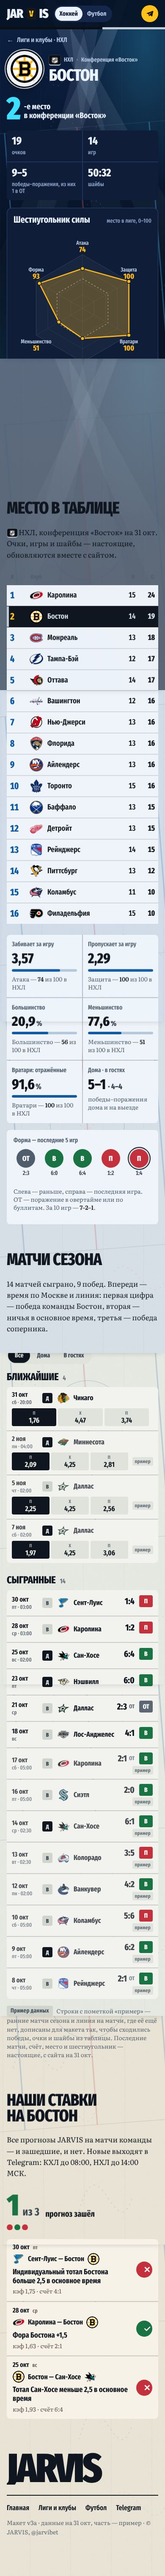
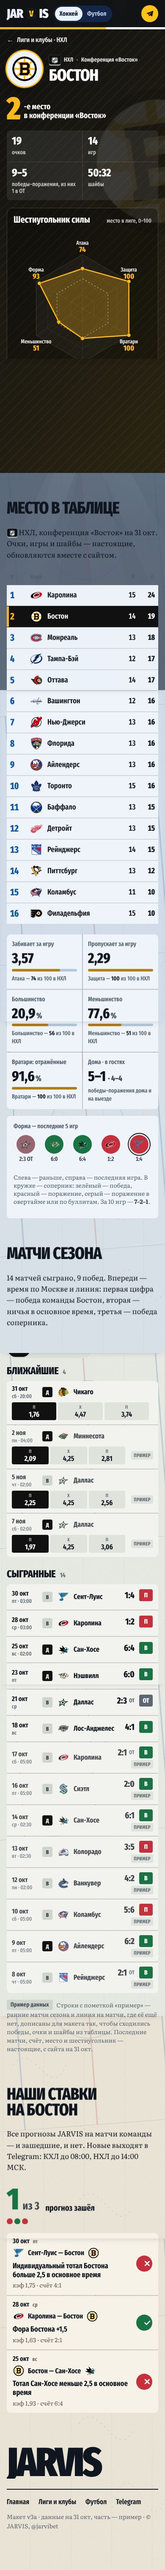
Сайт v3a, страница команды: фон в цветах клуба, форма — эмблемы соперников в кружках
- assets/data/clubs.js — фирменные цвета 54 клубов [основной, второй, акцент]; шапка — градиент клуба,
  «джерси»-фактура, крупная полупрозрачная эмблема у края; текст светлый/тёмный по контрасту ≥ 4,5:1 (team.js
  при нужде затемняет фон), акценты (шестиугольник, место, полоски, кнопки, строка в таблице) — в цвете клуба.
- «Форма — последние 5 игр»: вместо букв В/П — эмблема соперника на цветном кружке, title «Победа над Сочи 4:3»;
  так же в раскрытой карточке матча на /hockey/.
- Снимки: preview/team-{ska,akbars,nhl_bos}-{1440,390}.jpg, preview/team-form-closeup.jpg.

Claude-Session: https://claude.ai/code/session_01MtLSogHd6m7MxThqrTgRQx

diff --git a/team/site/v3a/assets/team.js b/team/site/v3a/assets/team.js
@@ -19,6 +19,7 @@ const tl=(s,inner,cls='')=>`<a class="${cls}" href="index.html?id=${esc(s)}${tq}
 const BACK=lg=>`../hockey/index.html${THEME?'?theme='+encodeURIComponent(THEME):''}#lg-${lg}`;
 const MON=['янв','фев','мар','апр','мая','июн','июл','авг','сен','окт','ноя','дек'],WD=['вс','пн','вт','ср','чт','пт','сб'];
 const day=d=>{const [y,m,dd]=d.slice(0,10).split('-').map(Number),x=new Date(Date.UTC(y,m-1,dd));return {d:dd,mon:MON[m-1],wd:WD[x.getUTCDay()],tm:d.slice(11,16)}};
+const formTitle=g=>{const r=g.gf>g.ga?'W':(g.x?'OTL':'L'),o=nm(g.o),sc=`${g.gf}:${g.ga}`;return r==='W'?`Победа над ${o} ${sc}${g.x?(g.x==='Б'?' по буллитам':' в овертайме'):''}`:`Поражение от ${o} ${sc}${r==='OTL'?(g.x==='Б'?' по буллитам':' в овертайме'):''}`};
 const res=g=>g.gf>g.ga?'W':(g.x?'OTL':'L');
 const RL={W:['В','w','победа'],L:['П','l','поражение'],OTL:['ОТ','ot','поражение в овертайме или по буллитам']};
 // тёмный фирменный цвет на тёмном фоне не виден — осветляем (как bright() в app/index.html)
@@ -58,9 +59,31 @@ if(!T){
 }
 
 const lg=T.lg,L=LG[lg],conf=T.conf||'';
-const acc=bright((T.colors||[])[2]||(T.colors||[])[0]);
+/* ── палитра клуба: градиент шапки из фирменных цветов (assets/data/clubs.js), текст светлый или тёмный по контрасту ≥ 4,5:1 ── */
+const rgb=h=>{const n=parseInt(String(h).replace('#','').replace(/^(.)(.)(.)$/,'$1$1$2$2$3$3'),16);return [n>>16,n>>8&255,n&255]};
+const hex=a=>'#'+a.map(v=>Math.max(0,Math.min(255,Math.round(v))).toString(16).padStart(2,'0')).join('');
+const mix=(a,b,t)=>hex(rgb(a).map((v,i)=>v+(rgb(b)[i]-v)*t));
+const lum=h=>{const c=rgb(h).map(v=>{v/=255;return v<=.03928?v/12.92:((v+.055)/1.055)**2.4});return .2126*c[0]+.7152*c[1]+.0722*c[2]};
+const cr=(a,b)=>{const x=lum(a),y=lum(b);return (Math.max(x,y)+.05)/(Math.min(x,y)+.05)};
+function palette(c){
+ let stops=[c[0],mix(c[0],c[1],.5),c[1]],acc=c[2];
+ const ok=t=>stops.every(s=>cr(t,s)>=4.5&&cr(mix(t,s,.25),s)>=4.5);   // и основной текст, и приглушённый (подписи)
+ let text=null;
+ for(let k=0;k<14&&!text;k++){if(ok('#ffffff'))text='#ffffff';else if(ok('#0b0f16'))text='#0b0f16';else stops=stops.map(s=>mix(s,'#000000',.1))}
+ text=text||'#ffffff';
+ // акцент должен читаться на фоне шапки (≥ 3:1 — крупные цифры и линии шестиугольника)
+ for(let k=0;k<10&&stops.some(s=>cr(acc,s)<3);k++)acc=mix(acc,text,.18);
+ // акцент на светлой «газете» ниже (полоски, обводки): затемняем до ≥ 3:1 к бумаге
+ let accL=c[2];for(let k=0;k<12&&cr(accL,'#eceee8')<3;k++)accL=mix(accL,'#000000',.12);
+ return {stops,text,acc,accL,base:stops[0]};
+}
+const CP=palette((window.JV_CLUBS||{})[ID]||[T.colors?.[0]||'#1b2a44',T.colors?.[1]||'#0b1220',bright(T.colors?.[2])]);
+const acc=CP.acc;
 document.title=`${T.name} — матчи сезона, место в таблице, сила команды · JARVIS`;
-document.documentElement.style.setProperty('--team',acc);
+{const st=document.body.style;[['--c1',CP.stops[0]],['--c2',CP.stops[1]],['--c3',CP.stops[2]],['--con',CP.text],['--cacc',CP.acc],['--team',CP.accL],['--cbase',CP.base]].forEach(([k,v])=>st.setProperty(k,v));
+ document.body.classList.toggle('on-light',CP.text!=='#ffffff');
+ const m=document.querySelector('meta[name=theme-color]');if(m)m.content=CP.stops[0];
+ const wm=document.createElement('img');wm.className='tmwm';wm.src=`../assets/em/${ID}.webp`;wm.alt='';wm.setAttribute('aria-hidden','true');document.querySelector('.tmhero').prepend(wm)}
 document.body.dataset.lg=lg;
 const played=T.games.filter(g=>g.gf!=null),future=T.games.filter(g=>g.gf==null);
 const hasSample=T.games.some(g=>g.s||g.ks);
@@ -121,8 +144,8 @@ document.getElementById('tableBox').innerHTML=`
     ${tile('Дома · в гостях',hm?`${hm[0]}–${hm[1]}`:'—',aw?` · ${aw[0]}–${aw[1]}`:'',null,'победы–поражения дома и на выезде')}
    </div>
    <div class="formbox"><span class="sl">Форма — последние 5 игр</span>
-    <ol class="frm" aria-label="Последние 5 игр, слева раньше">${last5.map(g=>{const r=RL[res(g)];return `<li class="${r[1]}" title="${esc(nm(g.o))}, ${g.gf}:${g.ga}${g.x?' '+g.x:''} — ${r[2]}"><b>${r[0]}</b><span>${g.gf}:${g.ga}</span></li>`}).join('')}</ol>
-    <p class="ss">Слева — раньше, справа — последняя игра. ОТ — поражение в овертайме или по буллитам. За 10 игр — <b>${T.l10s||T.l10+' '+plural(T.l10,'очко','очка','очков')}</b>.</p></div>
+    <ol class="frm" aria-label="Последние 5 игр, слева раньше">${last5.map(g=>{const t=formTitle(g);return `<li class="${RL[res(g)][1]}" title="${esc(t)}" aria-label="${esc(t)}"><b><img src="../assets/em/${esc(g.o)}.webp" alt="" loading="lazy"></b><span>${g.gf}:${g.ga}${g.x?' '+g.x:''}</span></li>`}).join('')}</ol>
+    <p class="ss">Слева — раньше, справа — последняя игра. В кружке — соперник: зелёный — победа, красный — поражение, серый — поражение в овертайме или по буллитам. За 10 игр — <b>${T.l10s||T.l10+' '+plural(T.l10,'очко','очка','очков')}</b>.</p></div>
   </div>
  </div>`;
 

diff --git a/team/site/v3a/assets/team.css b/team/site/v3a/assets/team.css
@@ -8,7 +8,7 @@ body[data-lg="nhl"]{--lgc:var(--nhl);--lgc2:var(--nhl-2)}
 .tmhero{padding-top:clamp(28px,4vw,56px)}
 [data-theme="arena"] .tmhero{padding-bottom:clamp(56px,7vw,110px)}
 .tmhero .wrap{grid-template-columns:minmax(0,1.1fr) minmax(0,.9fr);align-items:center}
-.tmhero::before{content:"";position:absolute;left:0;right:0;top:0;height:5px;background:linear-gradient(90deg,var(--lgc) 0 62%,var(--lgc2) 62%)}
+.tmhero::before{content:"";position:absolute;left:0;right:0;top:0;height:5px;z-index:2;background:linear-gradient(90deg,var(--cacc) 0 64%,var(--con) 64%)}
 .crumb{display:inline-flex;align-items:center;gap:8px;font:600 16px/1 var(--display);text-decoration:none;color:var(--ink-2);padding:8px 0;margin-bottom:clamp(14px,2vw,28px)}
 .crumb:hover{color:var(--ink);text-decoration:underline}
 .tmrow{display:grid;grid-template-columns:auto minmax(0,1fr);gap:clamp(16px,2.4vw,32px);align-items:center}
@@ -79,10 +79,11 @@ body[data-lg="nhl"]{--lgc:var(--nhl);--lgc2:var(--nhl-2)}
 .formbox{margin-top:16px;background:var(--card);border-radius:8px;padding:16px;display:grid;gap:12px}
 .frm{list-style:none;margin:0;padding:0;display:grid;grid-template-columns:repeat(5,minmax(0,1fr));gap:8px}
 .frm li{display:grid;justify-items:center;gap:6px}
-.frm b{display:grid;place-items:center;width:clamp(44px,4.4vw,56px);aspect-ratio:1;border-radius:50%;font:800 clamp(17px,1.6vw,21px)/1 var(--display);color:#fff}
+.frm b{display:grid;place-items:center;width:clamp(44px,4.4vw,56px);aspect-ratio:1;border-radius:50%}
+.frm b img{width:66%;height:66%;object-fit:contain;opacity:.62}
 .frm span{font:600 14px/1 var(--display);color:var(--ink-2);font-variant-numeric:tabular-nums}
-.frm .w b{background:var(--win);color:var(--win-ink)}.frm .l b{background:var(--red);color:var(--loss-ink)}.frm .ot b{background:var(--ink-3)}
-.frm li:last-child b{box-shadow:0 0 0 3px var(--paper),0 0 0 5px var(--ink)}
+.frm .w b{background:var(--win)}.frm .l b{background:var(--red)}.frm .ot b{background:color-mix(in srgb,var(--red) 35%,#7d848c)}
+.frm li:last-child b{box-shadow:0 0 0 3px var(--card),0 0 0 5px var(--cbase,var(--ink))}
 
 /* ── матчи сезона ── */
 .gfilter{margin:0 0 18px}
@@ -174,3 +175,32 @@ body[data-lg="nhl"]{--lgc:var(--nhl);--lgc2:var(--nhl-2)}
   .pks .gd{grid-area:d;display:flex;gap:8px;align-items:baseline}.pks .pm{grid-area:m}.pks .pt{grid-area:t}.pks .pr{grid-area:r;align-self:center}
 }
 .stand tr+tr td{border-top-color:var(--sep)}
+
+/* ══ фон клуба (31.10): градиент из фирменных цветов, «джерси»-фактура, крупная полупрозрачная эмблема у края ══ */
+[data-theme] .tmhero.hero{
+  --paper:var(--c1); --paper-2:color-mix(in srgb,var(--con) 14%,var(--c1)); --paper-3:color-mix(in srgb,var(--con) 22%,var(--c1));
+  --card:rgba(0,0,0,.26); --card-hi:rgba(0,0,0,.34);
+  --ink:var(--con); --ink-2:color-mix(in srgb,var(--con) 90%,var(--c2)); --ink-3:color-mix(in srgb,var(--con) 78%,var(--c2));
+  --rule:color-mix(in srgb,var(--con) 14%,transparent); --rule-2:color-mix(in srgb,var(--con) 18%,transparent);
+  --ice:var(--cacc); --sport:var(--cacc); --crest-bg:#eef3fa; --crest-pad:1;
+  color:var(--ink);overflow:hidden;isolation:isolate;
+  background:repeating-linear-gradient(135deg,color-mix(in srgb,var(--con) 4%,transparent) 0 2px,transparent 2px 16px),
+    linear-gradient(125deg,var(--c1) 0%,var(--c2) 55%,var(--c3) 100%)}
+body.on-light .tmhero.hero{--card:rgba(255,255,255,.34);--card-hi:rgba(255,255,255,.45)}
+.tmhero .wrap{position:relative;z-index:1}
+.tmwm{position:absolute;z-index:0;pointer-events:none;right:-9vw;top:50%;width:min(64vw,860px);height:auto;transform:translateY(-50%) rotate(-8deg);opacity:.1;filter:saturate(.6)}
+[data-theme="arena"] .tmhero .tmplace b{color:var(--cacc)}
+[data-theme="arena"]:not(.lit) body .hd{background:color-mix(in srgb,var(--c1) 94%,transparent)}
+.tmpower{box-shadow:inset 0 0 0 1px var(--rule-2)}
+.tmcrest{box-shadow:0 0 0 4px var(--cacc),0 0 0 7px var(--c3),0 24px 40px -24px #000}
+.stand tr.me td{background:var(--cbase);color:#fff}
+body.on-light .stand tr.me td{color:var(--con)}
+.stand tr.me td:first-child,[data-theme="arena"] .stand tr.me td:first-child{color:var(--cacc);box-shadow:inset 5px 0 0 var(--cacc)}
+.bar i{background:var(--team)}
+.gfilter button[aria-pressed="true"]{background:var(--cbase);color:var(--con)}
+.kx>span:first-child{background:var(--cbase);color:var(--con)}
+.ha.h{background:var(--cbase);color:var(--con)}
+@media (max-width:620px){
+  .tmwm{width:118vw;right:-46vw;top:30%}
+  .tmcrest{box-shadow:0 0 0 3px var(--cacc),0 0 0 5px var(--c3),0 16px 30px -18px #000}
+}

diff --git a/team/site/v3a/hockey/index.html b/team/site/v3a/hockey/index.html
@@ -397,7 +397,7 @@ function det(m){if(m.det)return m.det;const A=TD[SL(m.a)]||null,B=TD[SL(m.b)]||n
 function back(m){const {A,B,h2h}=det(m),nmS=sl=>(window.JV_TEAMS.names||{})[sl]||sl;
  const smp=g=>g.s?' <span class="smp">пример</span>':'';
  const last=t=>`<div class="l3"><h5>${CI(t.name)}${esc(t.name)}</h5><ul>${t.g.slice(0,3).map(g=>{const r=rOf(g);return `<li><b class="rs ${r}" title="${RESF[r]}">${RES[r]}</b><span class="op">${CI(nmS(g.o))}${esc(nmS(g.o))}</span><span class="sc num">${g.gf}:${g.ga}${g.x?`<small>${g.x}</small>`:''}</span><span class="d">${dd(g.d)}${smp(g)}</span></li>`}).join('')||'<li class="none">Нет данных</li>'}</ul></div>`;
- const form=t=>`<div class="fm"><span>${CI(t.name)}${esc(t.name)}</span><span class="dots" aria-label="форма: ${t.g.slice(0,5).map(g=>RESF[rOf(g)]).join(', ')}">${t.g.slice(0,5).map(g=>`<i class="${rOf(g)}">${RES[rOf(g)]}</i>`).join('')}</span></div>`;
+ const form=t=>`<div class="fm"><span>${CI(t.name)}${esc(t.name)}</span><span class="dots" aria-label="форма: ${t.g.slice(0,5).map(g=>(rOf(g)==='w'?'победа над ':'поражение от ')+nmS(g.o)+' '+g.gf+':'+g.ga).join(', ')}">${t.g.slice(0,5).map(g=>{const r=rOf(g),o=nmS(g.o),sc=`${g.gf}:${g.ga}`,ex=g.x?(g.x==='Б'?' по буллитам':' в овертайме'):'',tt=r==='w'?`Победа над ${o} ${sc}${ex}`:`Поражение от ${o} ${sc}${ex}`;return `<i class="${r}" title="${esc(tt)}"><img src="../assets/em/${esc(g.o)}.webp" alt="" loading="lazy"></i>`}).join('')}</span></div>`;
  /* личные встречи: счёт с точки зрения хозяев матча m.a */
  const wA=h2h.filter(g=>g.gf>g.ga).length,wB=h2h.length-wA;
  const h2hHTML=h2h.length?`<p class="h2t"><span>${CI(m.a)}${esc(m.a)}</span><b class="num">${wA} — ${wB}</b><span>${esc(m.b)}${CI(m.b)}</span></p><ul class="h2l">${h2h.map(g=>{const home=g.h?m.a:m.b,away=g.h?m.b:m.a,hs=g.h?g.gf:g.ga,as=g.h?g.ga:g.gf,aw=g.gf>g.ga;
@@ -405,7 +405,7 @@ function back(m){const {A,B,h2h}=det(m),nmS=sl=>(window.JV_TEAMS.names||{})[sl]|
   :`<p class="none">В этом сезоне ещё не встречались.</p>`;
  return `<div class="xd">
   <section class="xb x-last"><h4>Последние 3 матча</h4><div class="two">${last(A)}${last(B)}</div></section>
-  <section class="xb x-form"><h4>Форма <span class="note">последние 5, слева — свежий</span></h4>${form(A)}${form(B)}</section>
+  <section class="xb x-form"><h4>Форма <span class="note">последние 5, слева — свежий; в кружке — соперник</span></h4>${form(A)}${form(B)}</section>
   <section class="xb x-stat"><h4>Статистика команды <span class="note">сезон 2026/27</span></h4><table class="st"><thead><tr><th></th><th>${CI(A.name)}<span>${esc(A.name)}</span></th><th>${CI(B.name)}<span>${esc(B.name)}</span></th></tr></thead>
    <tbody>${A.st.map((r,i)=>`<tr><td>${r[0]}</td><td class="num">${r[1]}</td><td class="num">${B.st[i]?B.st[i][1]:'—'}</td></tr>`).join('')}</tbody></table></section>
   <section class="xb x-h2h"><h4>Личные встречи в этом сезоне</h4>${h2hHTML}</section>

diff --git a/team/site/v3a/assets/data/clubs.js b/team/site/v3a/assets/data/clubs.js
@@ -1,0 +1,33 @@
+/* Фирменные цвета 54 клубов КХЛ/НХЛ для страницы команды v3a: [основной, второй, акцент].
+   Основной и второй — градиент шапки клуба (тёмные, под светлый текст), акцент — яркий цвет клуба для шестиугольника,
+   места в таблице, полосок. Подобраны руками по эмблемам (render/emblems) и фирменным цветам клубов;
+   контраст текста team.js проверяет сам (≥ 4,5:1) и при нужде затемняет фон. */
+window.JV_CLUBS={
+ ska:['#1d4596','#0b1f4d','#ff3b43'],          cska:['#c8102e','#0f2a6b','#9fc0ff'],
+ akbars:['#00703c','#003d22','#ff4a4a'],        dinamo_msk:['#003da5','#001d55','#8cc0ff'],
+ avangard:['#1a1a1a','#6b0b17','#ff3347'],      amur:['#1b2a4a','#0d1528','#ff7a2e'],
+ spartak:['#c8102e','#6e0816','#ffffff'],       torpedo:['#1e3a93','#0c1a4a','#ff3b45'],
+ sibir:['#1b325a','#0b162b','#a8cdf5'],         lokomotiv:['#c8102e','#6b0813','#ffffff'],
+ traktor:['#26262a','#0d0d0f','#d4d7dd'],       metallurg:['#16244f','#0a1230','#f59b23'],
+ salavat:['#1f6e3d','#162060','#e3b93b'],       neftekhimik:['#1c3f6e','#0c1d36','#ff4a55'],
+ dinamo_minsk:['#0d5f9e','#0b1a2e','#7fd0ff'],  severstal:['#262626','#0f0f0f','#ffcc00'],
+ barys:['#126478','#0b2a45','#62dbe9'],         avtomobilist:['#161616','#6d0a12','#ff4553'],
+ admiral:['#1a2140','#0b0f20','#d1b06f'],       lada:['#0f4c81','#07243f','#9cc8f2'],
+ sochi:['#13284f','#08152e','#f5b400'],         shanghai:['#b23c00','#4a1200','#ffb000'],
+ nhl_car:['#1a1a1a','#8b0a17','#ff3347'],       minnesota:['#154734','#0b2419','#e8c37c'],
+ nhl_edm:['#041e42','#021022','#ff4c00'],       nhl_bos:['#111111','#2b2411','#ffb81c'],
+ nhl_vgk:['#333f42','#151b1d','#c9a96b'],       nhl_mtl:['#a51b2a','#141b5a','#ffffff'],
+ nhl_uta:['#141416','#0a0a0b','#71afe5'],       nhl_tbl:['#00205b','#00102e','#7fb2ff'],
+ nhl_sea:['#001628','#00303d','#99d9d9'],       nhl_ott:['#c8102e','#1a1a1a','#d4a64a'],
+ nhl_wsh:['#041e42','#020f22','#ff3347'],       nhl_njd:['#111111','#7d0b18','#ff3347'],
+ nhl_fla:['#b40e28','#041e42','#d5b462'],       nhl_nyi:['#00539b','#002a4f','#ff8a3d'],
+ nhl_tor:['#00205b','#00102e','#cfe0ff'],       nhl_col:['#6f263d','#236192','#8cc4ee'],
+ dallas:['#006847','#111111','#9fe0c1'],        nhl_buf:['#003087','#00184a','#ffb81c'],
+ nhl_det:['#ce1126','#6b0913','#ffffff'],       nhl_nyr:['#0038a8','#001c54','#ff3b4e'],
+ nhl_sjs:['#006d75','#00363a','#ff8a1f'],       nhl_stl:['#002f87','#001744','#fcb514'],
+ nhl_nsh:['#041e42','#020f22','#ffb81c'],       nhl_pit:['#111111','#2b2411','#fcb514'],
+ nhl_ana:['#111111','#3a2414','#f47a38'],       nhl_wpg:['#041e42','#0d2c5c','#8ab6e8'],
+ nhl_cbj:['#002654','#00132a','#ff3347'],       nhl_cgy:['#c8102e','#5c0715','#f1be48'],
+ nhl_lak:['#111111','#2b2b2b','#c9ced2'],       nhl_phi:['#111111','#3d1400','#f74902'],
+ nhl_chi:['#b00d2a','#1a1a1a','#ffffff'],       nhl_van:['#00205b','#00102e','#21c46b']
+};

diff --git a/team/site/v3a/team/index.html b/team/site/v3a/team/index.html
@@ -63,6 +63,7 @@ document.querySelector('meta[name=theme-color]').content={arena:'#071225',a:'#0a
 <a class="tgbar" id="tgbar" href="https://t.me/jarvibet" target="_blank" rel="noopener"><span>Получать прогноз в 08:00 — @jarvibet</span><span aria-hidden="true">›</span></a>
 
 <script src="../assets/data/teams.js"></script>
+<script src="../assets/data/clubs.js"></script>
 <script src="../assets/v3a.js"></script>
 <script src="../assets/team.js"></script>
 </body>
